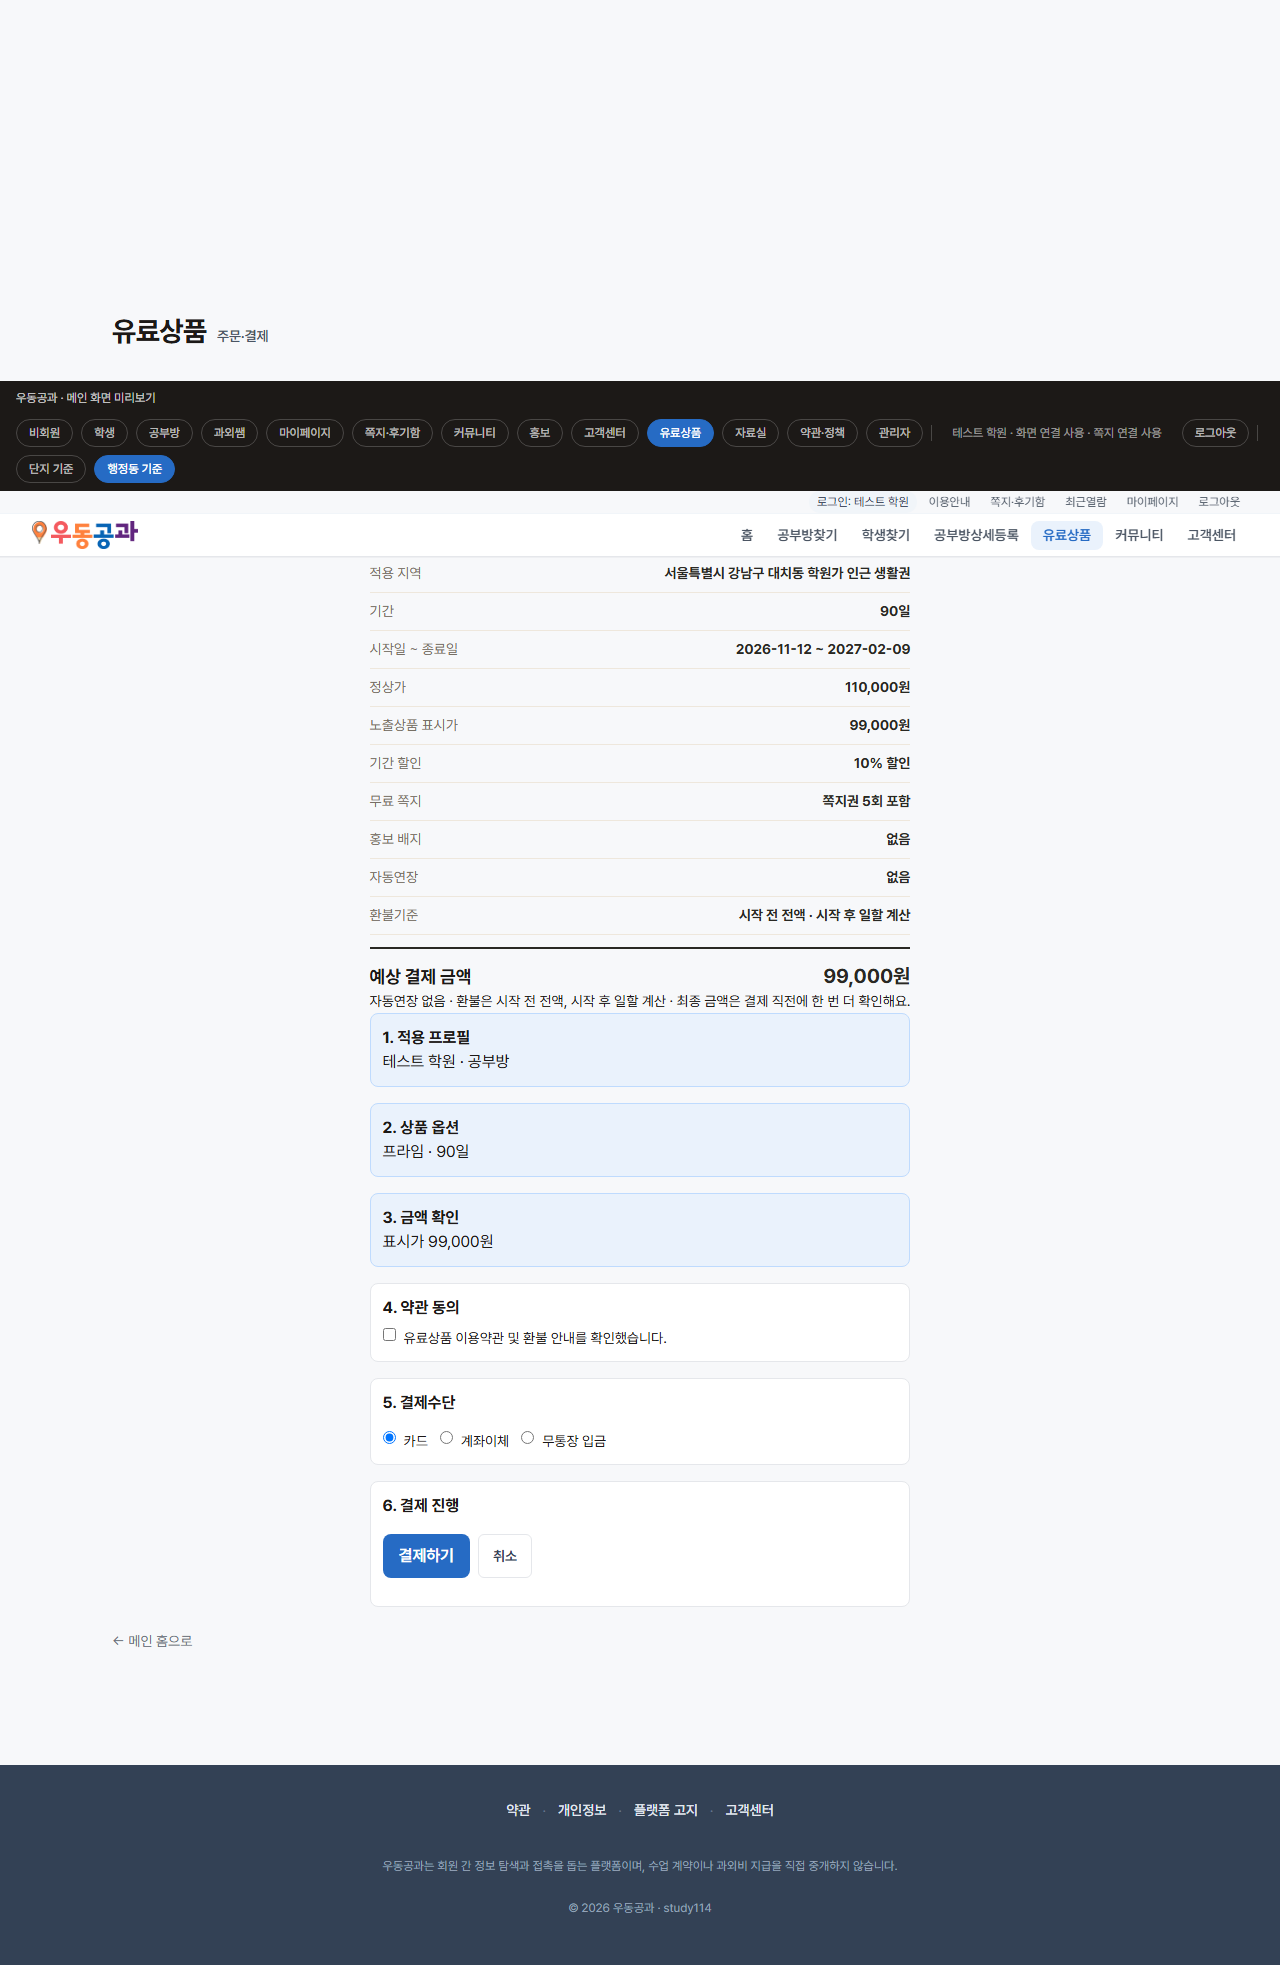
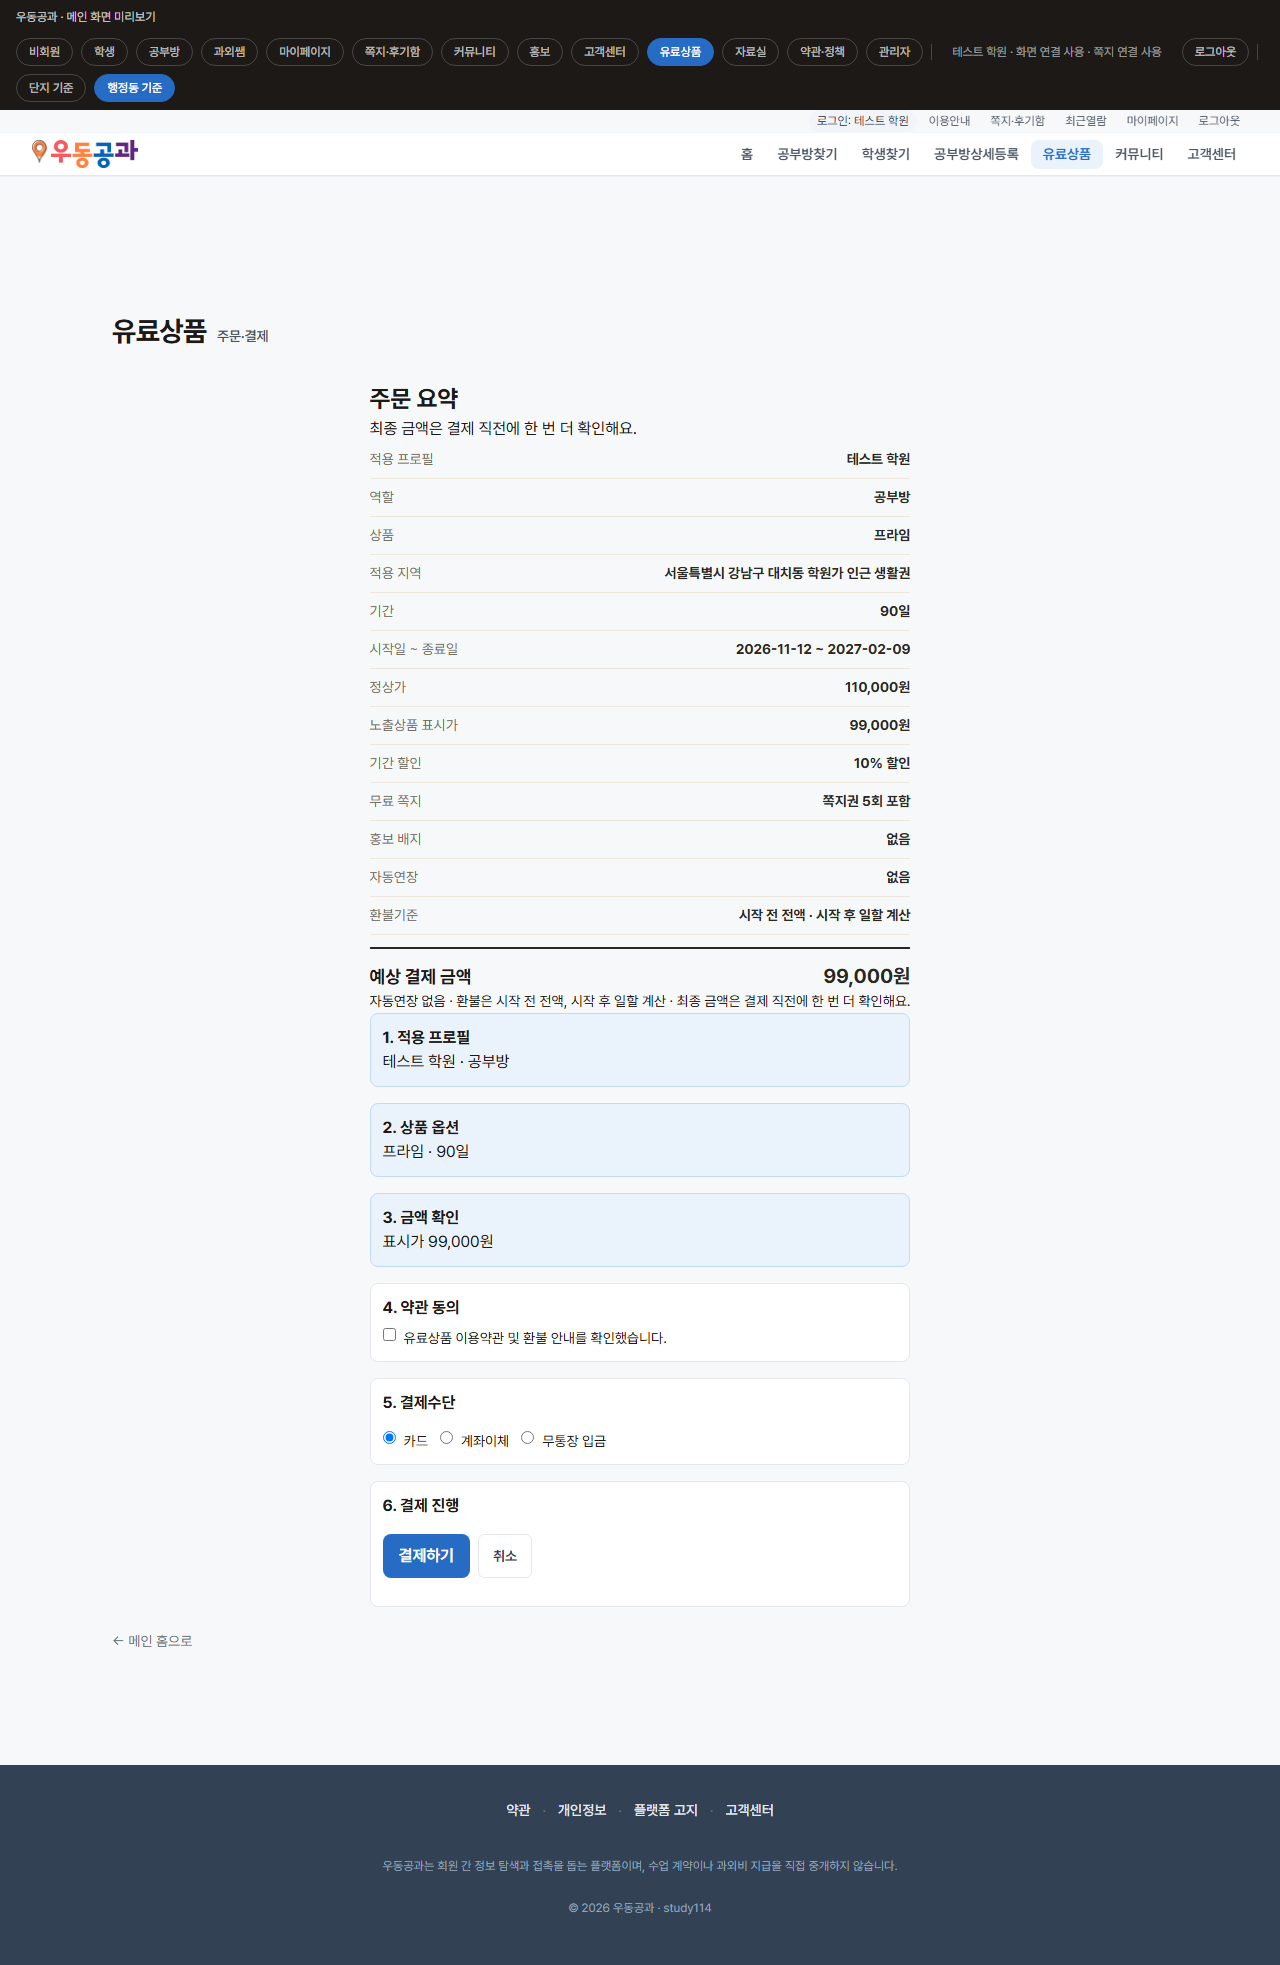
369-patch3: fix 90d preview dates, copy cleanup, recapture shots

Changed region(s): [[0.0, 0.1863, 1.0, 0.2794], [0.0, 0.0, 1.0, 0.0931]]

diff --git a/preview/home-ui/src/plans/screens.js b/preview/home-ui/src/plans/screens.js
@@ -1059,7 +1059,7 @@ function renderTestModeToggle() {
   return `
     <label class="plans-test-mode">
       <input type="checkbox" data-plans-test-mode ${on ? 'checked' : ''} />
-      <span>결제 테스트 모드 (금액은 카탈로그 기준)</span>
+      <span>결제 테스트 모드</span>
     </label>`;
 }
 
@@ -1257,7 +1257,7 @@ export function renderPlansPositions() {
               renderOffer(p, p.tagline || p.name || productLabel(p.productCode), (primeProduct ? 1 : 0) + (pickProduct ? 1 : 0) + i),
             )
             .join('')}`
-              : `<div class="plans-sf-empty" role="status">표시할 노출상품이 없습니다. 카탈로그를 다시 불러와 주세요.</div>`
+              : `<div class="plans-sf-empty" role="status">상품 정보를 다시 불러와 주세요.</div>`
           }
 
           ${renderBadgeAddonSection(role, ops, {
@@ -2647,7 +2647,7 @@ export function bindPlansScreenEvents(root, rerender) {
       payBtn.setAttribute('disabled', 'true');
       try {
         if (!getProductConfig(draft.productCode, draft.providerType)) {
-          throw new Error('상품 카탈로그가 준비되지 않았습니다. 새로고침 후 다시 시도해 주세요.');
+          throw new Error('상품 정보가 아직 준비되지 않았어요. 잠시 후 다시 시도해 주세요.');
         }
         let created = null;
         if (draft.orderRef) {

diff --git a/preview/home-ui/src/plans/catalog-store.js b/preview/home-ui/src/plans/catalog-store.js
@@ -107,13 +107,16 @@ export async function hydratePaidCatalog(providerType, opts = {}) {
     const res = await fetch(`${PAID_ENDPOINTS.catalog}${qs}`, { credentials: 'include' });
     const data = await res.json().catch(() => ({}));
     if (!res.ok || data.ok === false) {
-      const msg = data.message || `카탈로그를 불러오지 못했습니다 (HTTP ${res.status})`;
+      const msg = data.message || '상품 정보를 불러오지 못했어요. 잠시 후 다시 시도해 주세요.';
+      if (!data.message) {
+        console.warn('[catalog] load failed', res.status);
+      }
       catalogError = msg;
       catalogState = null;
       throw new Error(msg);
     }
     if (!Array.isArray(data.products) || !data.catalog_version) {
-      catalogError = '카탈로그 응답 형식이 올바르지 않습니다.';
+      catalogError = '상품 정보를 불러오지 못했어요. 잠시 후 다시 시도해 주세요.';
       catalogState = null;
       throw new Error(catalogError);
     }

diff --git a/preview/home-ui/src/plans/period-cards.js b/preview/home-ui/src/plans/period-cards.js
@@ -76,6 +76,12 @@ export function resolvePeriodDuration(option) {
   if ((typeRaw === 'day' || typeRaw === 'month') && valueRaw > 0) {
     return { type: typeRaw, value: valueRaw };
   }
+  // 카탈로그가 duration_* 없이 label/api_variant만 줄 때(30일·90일·30d·90d)
+  const text = String(option?.label || option?.apiVariant || option?.period || '').trim();
+  const dayMatch = text.match(/^(\d+)\s*일$/) || text.match(/^(\d+)\s*d(?:ays?)?$/i);
+  if (dayMatch) {
+    return { type: 'day', value: Number(dayMatch[1]) };
+  }
   const key = periodKey(option);
   if (key === '2주') return { type: 'day', value: 14 };
   const months = { '1개월': 1, '2개월': 2, '3개월': 3, '6개월': 6 };

diff --git a/docs/worklog/2026/11/2026-11-12-369-checkout-layout.md b/docs/worklog/2026/11/2026-11-12-369-checkout-layout.md
@@ -1,4 +1,4 @@
-# [369] / [369-보완] / [369-보완2] 결제 화면(주문 요약) 레이아웃·문구
+# [369] / [369-보완] / [369-보완2] / [369-보완3] 결제 화면(주문 요약) 레이아웃·문구
 
 ## 지시서 원문 (요약)
 
@@ -7,40 +7,37 @@
 - 369: 180px 갇힘 수정 → 1280/390 → 문구 → 캡처
 - 369-보완: 모바일 nowrap · mypage-lead 중복 제거 · 개발용어 · 실앱 캡처
 - 369-보완2: 잔여 개발용어 6곳 · 상품/지역 nowrap 해제 · P18-07 제목 중복 · captures 폴더 삭제 · shots-369 재캡처
+- 369-보완3: 스토어프론트 기간·날짜 불일치 수정 · 문구 5곳 · before-* 삭제 · 결제 8장+스토어프론트 재캡처
 
 ## 원인 분석 (369)
 
 **~180px 갇힘:** `.sup-frame` 2열 그리드에서 checkout이 nav를 숨기면 body가 11.5rem 열에 갇힘.  
 수정: `.sup-frame--no-nav { display: block }` + `.plans-checkout { max-width: 44rem; margin-inline: auto }`
 
-## 캡처 (shots-369 기준, 369-보완2)
+## 원인 분석 (369-보완3)
 
-경로: `docs/worklog/2026/11/shots-369/`
+**재현:** P18-02 storefront 390에서 기간 「90일」인데 날짜가 `2026-11-12 ~ 2026-12-11`(30일)로 표시됨.  
+**원인:** `period-cards.js` `resolvePeriodDuration`이 `30일`/`90일`/`30d`/`90d`를 파싱하지 못해 기본 `{type:'month',value:1}`로 떨어짐. 라벨은 option.label「90일」을 쓰고 미리보기만 1개월.  
+**수정:** `resolvePeriodDuration`에 `N일`/`Nd` 파싱 추가 → 프라임 90일 = `2026-11-12 ~ 2027-02-09`.
 
-| 파일 | 폭 | SHA-256(16) |
-|---|---|---|
-| after-prime-badge-1280.png | 1280 | `99891fda30864ba6` |
-| after-prime-badge-390.png | 390 | `34d4a66ee5399c2d` |
-| after-prime-nobadge-1280.png | 1280 | `6967bf5a084596fb` |
-| after-prime-nobadge-390.png | 390 | `3f8a887480e63f8a` |
-| after-pick-badge-1280.png | 1280 | `6cb50f2b1d74cf0e` |
-| after-pick-badge-390.png | 390 | `bef89addf09579ac` |
-| after-pick-nobadge-1280.png | 1280 | `9d96f5928e641a9b` |
-| after-pick-nobadge-390.png | 390 | `34aea07da3880bf4` |
-| result-success-1280.png | 1280 | `02edf679b887f63f` |
-| result-success-390.png | 390 | `d3d185be049ed269` |
-| storefront-prime-badge-390.png | 390 | `942cb1ba4129e351` |
+## 캡처 (shots-369 기준, 369-보완3)
 
-해시 중복 0. 루트 `captures/369-checkout-before`·`after` 폴더는 삭제.
+경로: `docs/worklog/2026/11/shots-369/`  
+`before-*` PNG·before-report 삭제. 상세: `capture3-report.txt`
 
-### 390 날짜·금액 한 줄 확인
+| 파일 | 크기 | SHA-256(16) | 기간 | 날짜 | 금액 | 배지 | 총액 | 보이는 행 |
+|---|---|---|---|---|---|---|---|---|
+| after-prime-badge-1280.png | 147316 | `b5b17211e5531d11` | 90일 | 2026-11-12 ~ 2027-02-09 | 99,000원 | 9,900원 | 108,900원 | 주문 요약·프로필·역할·상품·지역·기간·날짜·금액·배지·총액 |
+| after-prime-badge-390.png | 128687 | `728aeb09039bb022` | 90일 | 동일 | 동일 | 동일 | 동일 | 동일 + 긴 지역명 줄바꿈 |
+| after-prime-nobadge-1280.png | 140477 | `6b1ec89e7e83ddd8` | 90일 | 동일 | 99,000원 | 없음 | 99,000원 | 동일(배지 없음) |
+| after-prime-nobadge-390.png | 121767 | `cb0ca4c9501ae786` | 90일 | 동일 | 동일 | 없음 | 동일 | 동일 |
+| after-pick-badge-1280.png | 138728 | `793f874e8d338d08` | 30일 | 2026-11-12 ~ 2026-12-11 | 33,000원 | 5,500원 | 38,500원 | 동일 |
+| after-pick-badge-390.png | 120142 | `e9083345f9740440` | 30일 | 동일 | 동일 | 동일 | 동일 | 동일 |
+| after-pick-nobadge-1280.png | 131804 | `c475537e0778db46` | 30일 | 동일 | 33,000원 | 없음 | 33,000원 | 동일 |
+| after-pick-nobadge-390.png | 113939 | `80b431d3a6a42ecf` | 30일 | 동일 | 동일 | 없음 | 동일 | 동일 |
+| storefront-prime-badge-390.png | 415479 | `2e8eedcd5533f85e` | 90일 | 2026-11-12 ~ 2027-02-09 | 99,000원 | 9,900원 | 108,900원 | 전체 폭 390 fullPage |
 
-| 시나리오 | 날짜 | 금액 |
-|---|---|---|
-| prime-badge | `2026-11-12 ~ 2027-02-09` nowrap | `99,000원` nowrap |
-| prime-nobadge | 동일 | 동일 |
-| pick-badge | `2026-11-12 ~ 2026-12-11` nowrap | `33,000원` nowrap |
-| pick-nobadge | 동일 | 동일 |
+해시 중복 0.
 
 ## 수정 파일 (누적)
 
@@ -52,6 +49,8 @@
 6. `preview/home-ui/src/plans/store-ui.js`
 7. `preview/home-ui/src/plans/index.js`
 8. `preview/home-ui/src/plans/runtime-config.js`
+9. `preview/home-ui/src/plans/period-cards.js` (보완3)
+10. `preview/home-ui/src/plans/catalog-store.js` (보완3)
 
 ## 검수
 
